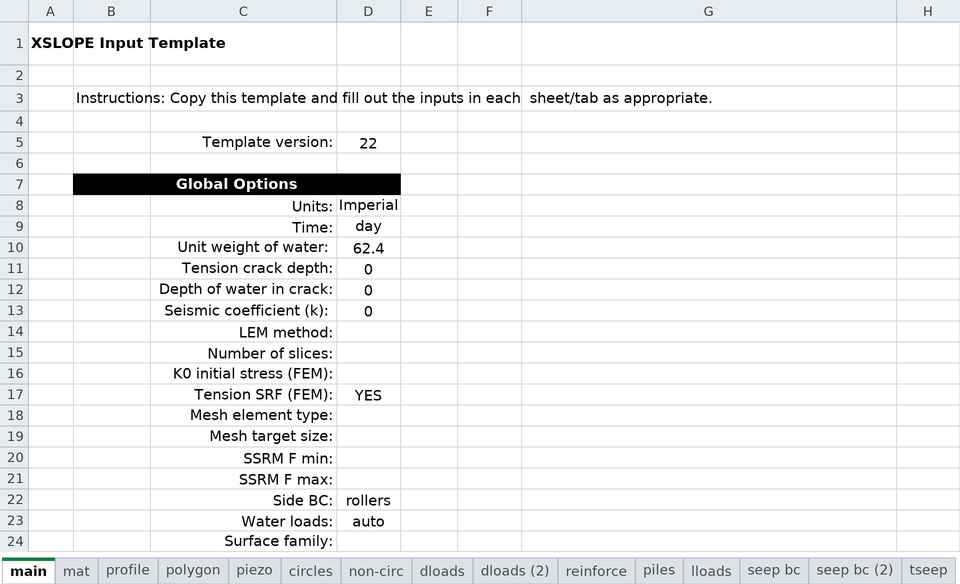
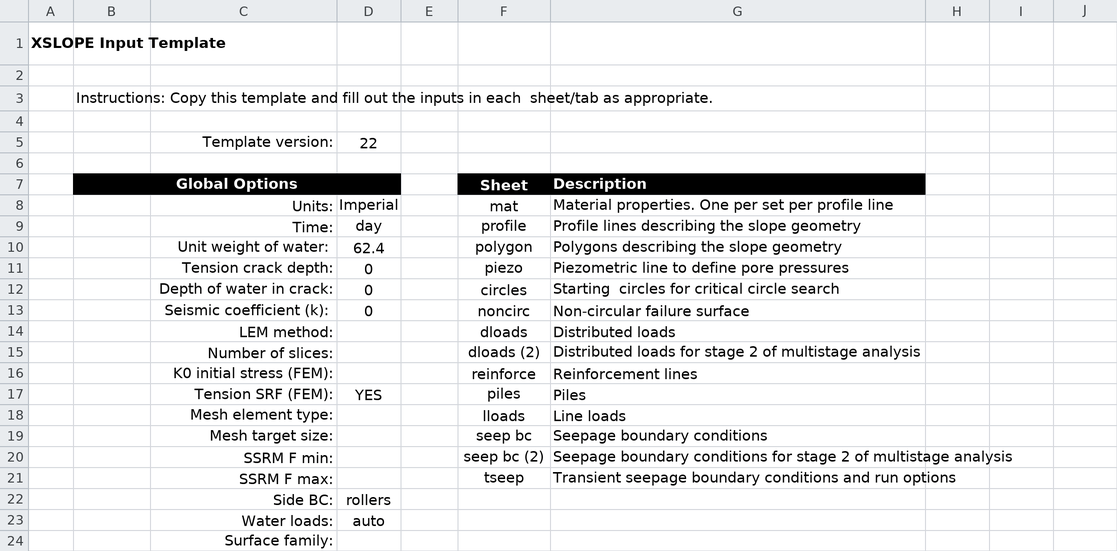
docs(tutorials): Tutorial 0's figures show the state the prose describes, on any machine
The template capture (t0_template): the tab strip is gone and the window widens
to A:G. The strip named the worksheets; F7:G21 is the workbook's own Sheet /
Description table, which names AND describes them -- the paragraph beside the
figure is about exactly that. It also padded the capture out to its own fixed
width with empty grid columns, the thing the owner's review of the LEM-1
captures rejected: 4 blank columns before, and the body now carries 9% right
slack against the published lem01_sheet_main's 26%. The LEM-1 sheet renders are
byte-identical after the signature change (tab_strip defaults off).

A second package-dialog capture (t0_unpack_exists): _refresh hides Unpack and
Open exactly when Open Existing and Extract Fresh appear, so the Studio
reference page's shot -- a free destination -- cannot illustrate the question
the tutorial was describing under it. The new shot uses the same stand-in path
as its sibling so the two read as one dialog in two states, and gets there by
stubbing the filesystem's answer for that one path rather than by driving the
dialog by hand: the visibility rule, the status line and the numbered fresh
folder are then the dialog's own work. The stub answers for one path only --
_fresh_dest probes -2, -3, ... and would not terminate against a blanket True.

The main-window capture (t0_studio_window): the Assistant dock's caption names
the active provider and model, read from the machine's stored settings, so the
[…]

Changed region(s): [[0.0, 0.0, 1.0, 1.0]]

diff --git a/tools/capture_tutorial_screenshots.py b/tools/capture_tutorial_screenshots.py
@@ -220,33 +220,104 @@ def t0_studio_window():
     real screen), on LEM-1's model, so the reader recognises the section when they
     reach their first build.
 
-    The dock's caption reads the provider and model stored on the machine that runs
-    this, which is the dock's own behaviour ("the dock shows the active provider ·
-    model") rather than anything the shot arranges — so a re-capture elsewhere shows
-    that machine's choice, and the page never quotes the caption's contents.
+    The dock's caption names the active provider and model, which it reads from the
+    machine's stored settings — so an uncaptioned capture photographs whatever the
+    person running it happens to have selected, which for this figure meant a model
+    a reader could neither find in the list nor reach. The capture therefore pins
+    the selection to the shipped default (Claude, and the first entry of the
+    provider's static list) for the length of the grab and puts the machine's own
+    settings back afterwards, whatever happens. The pinned model is read from the
+    provider table rather than spelled here, so the figure follows the default if it
+    changes.
+
+    Pinned rather than deleted: with no model stored, the dock falls back to the
+    recommendations manifest when one has been fetched into these same settings,
+    which is again machine-dependent.
     """
+    from PySide6.QtCore import QSettings
+
+    from studio.ai.config import PROVIDERS
     from studio.main_window import MainWindow
-    win = MainWindow()
-    win.resize(1600, 1000)
-    win.open_path(LEM01)
-    win.show()
-    _settle()
-    win.canvas.render_inputs(win.doc.slope_data)
-    _settle()
-    win.canvas._render_timer.stop()
-    win.canvas._render_current()
-    win.log.clear()
-    _settle()
-    pix = win.grab()
-    out = os.path.join(OUT_DIR, "t0_studio_window.png")
-    pix.save(out)
-    print("-> t0_studio_window.png  (%dx%d, offscreen main window)"
-          % (pix.width(), pix.height()))
-    win.close()
-    return out
+
+    #: The settings the app itself uses — the real ones, which is why every write
+    #: below is undone in the finally block.
+    settings = QSettings("XSlope", "XSlope Studio")
+    pinned = {"ai/provider": "anthropic",
+              "ai/model/anthropic": PROVIDERS["anthropic"]["models"][0]}
+    # `None` records "this key was not set", which must be restored by REMOVING it
+    # again rather than by writing an empty string.
+    stashed = {k: (settings.value(k) if settings.contains(k) else None)
+               for k in pinned}
+    win = None
+    try:
+        for key, value in pinned.items():
+            settings.setValue(key, value)
+        settings.sync()
+
+        win = MainWindow()
+        win.resize(1600, 1000)
+        win.open_path(LEM01)
+        win.show()
+        _settle()
+        win.canvas.render_inputs(win.doc.slope_data)
+        _settle()
+        win.canvas._render_timer.stop()
+        win.canvas._render_current()
+        win.log.clear()
+        _settle()
+        pix = win.grab()
+        out = os.path.join(OUT_DIR, "t0_studio_window.png")
+        pix.save(out)
+        print("-> t0_studio_window.png  (%dx%d, offscreen main window, %s)"
+              % (pix.width(), pix.height(), pinned["ai/model/anthropic"]))
+        return out
+    finally:
+        for key, value in stashed.items():
+            if value is None:
+                settings.remove(key)
+            else:
+                settings.setValue(key, value)
+        settings.sync()
+        if win is not None:
+            win.close()
 
 
 SHOTS["t0_studio_window"] = t0_studio_window
+
+
+def t0_unpack_exists():
+    """The package-open dialog on a destination that is ALREADY THERE.
+
+    The two states are mutually exclusive — ``UnpackPackageDialog._refresh`` hides
+    **Unpack and Open** exactly when **Open Existing** and **Extract Fresh** appear
+    — so the Studio reference page's capture (a free destination) cannot illustrate
+    the question this state asks, and the tutorial shows both.
+
+    The path in the figure is the same stand-in its sibling uses, so the two read as
+    one dialog in two states rather than two dialogs. Making that path *exist* is
+    the whole difficulty: the dialog asks the filesystem. So the filesystem's answer
+    is stubbed for the one path, rather than the dialog being driven into the state
+    by hand — the visibility rule, the status line and the numbered fresh folder are
+    then all the dialog's own work, which is what the tutorial's prose describes.
+    The stub answers True for that path ONLY: ``_fresh_dest`` probes ``-2``, ``-3``
+    … for the first free name and would not terminate against a blanket True.
+    """
+    from studio import dialogs
+    from studio.dialogs import UnpackPackageDialog
+
+    dest = "/Users/you/Projects/xslope_earth_dam"
+    dlg = UnpackPackageDialog(dest + ".xslz")
+    real_exists = dialogs.os.path.exists
+    dialogs.os.path.exists = lambda p: p == dest or real_exists(p)
+    try:
+        dlg._refresh()
+        dlg.resize(dlg.sizeHint())
+        return _grab(dlg, "t0_unpack_exists.png")
+    finally:
+        dialogs.os.path.exists = real_exists
+
+
+SHOTS["t0_unpack_exists"] = t0_unpack_exists
 
 
 def main(argv=None):

diff --git a/tools/make_tutorial_figures.py b/tools/make_tutorial_figures.py
@@ -258,15 +258,21 @@ TEMPLATE = os.path.join(REPO_ROOT, "docs/inputs/input_template.xlsx")
 
 
 def t0_template():
-    """The template's ``main`` worksheet as it is downloaded, with the tab strip.
+    """The template's ``main`` worksheet as it is downloaded, out to column G.
 
-    The strip is the point of this one: it names every worksheet in the workbook,
-    which is what the tutorial's paragraph beside it is describing. Same row/column
-    window as LEM-1's filled ``main`` capture — content stops at the Water-loads
-    row, below which the sheet holds the hidden source data behind the dropdowns.
+    The window is wider than LEM-1's ``A:D`` because the sheet carries its own
+    **Sheet / Description** table in ``F7:G21`` — the workbook naming and
+    describing every worksheet in itself, which is what the tutorial's paragraph
+    beside this figure is about. The tab strip would say the same thing less well:
+    it names the sheets without describing them, and it pads a narrow capture out
+    to its own fixed width with empty grid columns, which the owner's review of the
+    LEM-1 captures rejected.
+
+    Rows stop at 24 (the Surface-family row) for the same reason LEM-1's do —
+    below it the sheet holds the hidden source data behind the dropdowns, which is
+    not part of what a reader fills in.
     """
-    render("t0_template_main.png", TEMPLATE, "main", rows=(1, 24), cols="A:D",
-           tab_strip=True)
+    render("t0_template_main.png", TEMPLATE, "main", rows=(1, 24), cols="A:G")
 
 
 GROUPS = {
